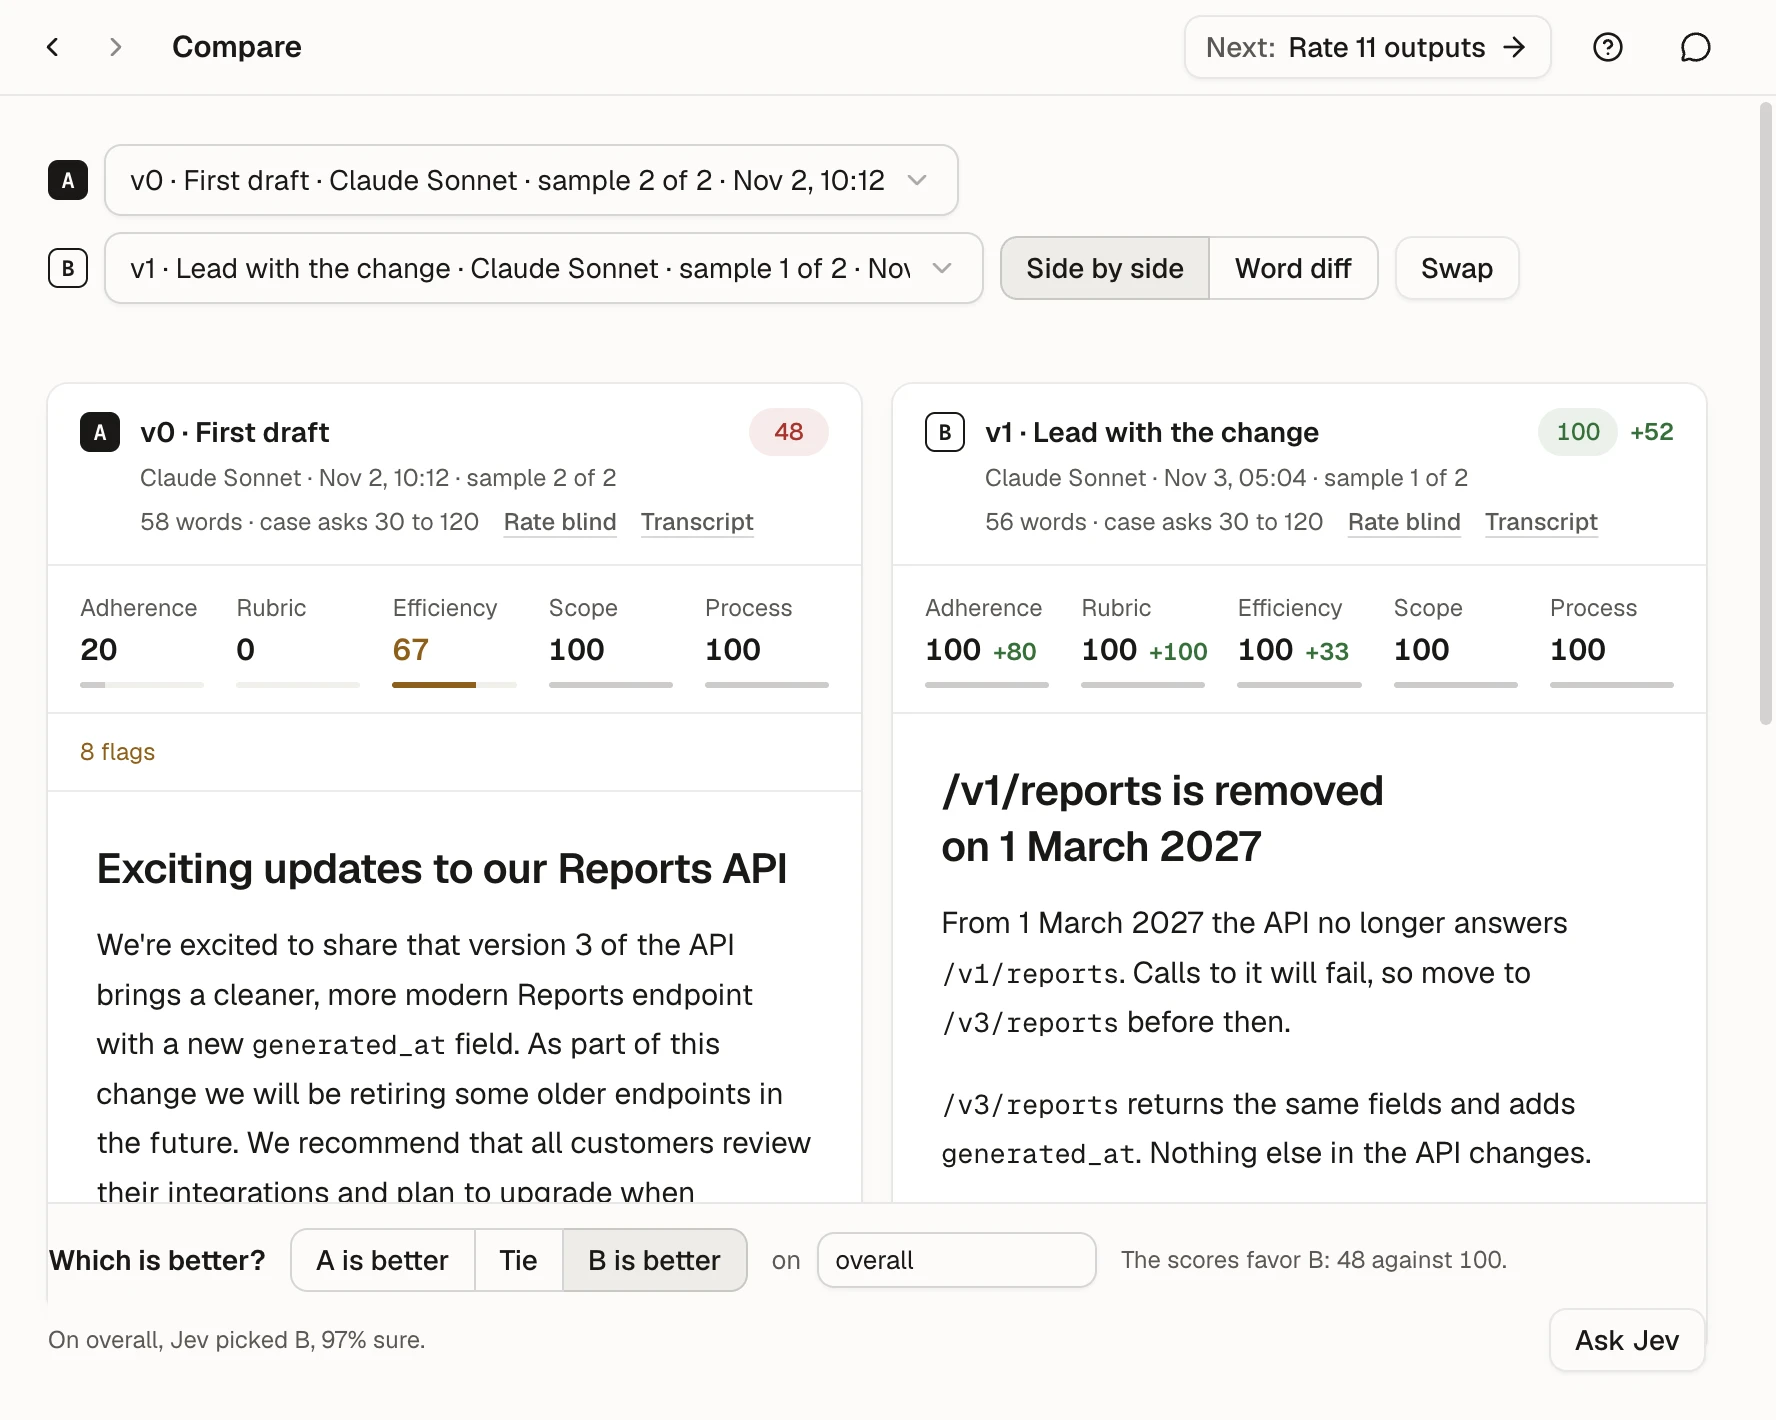
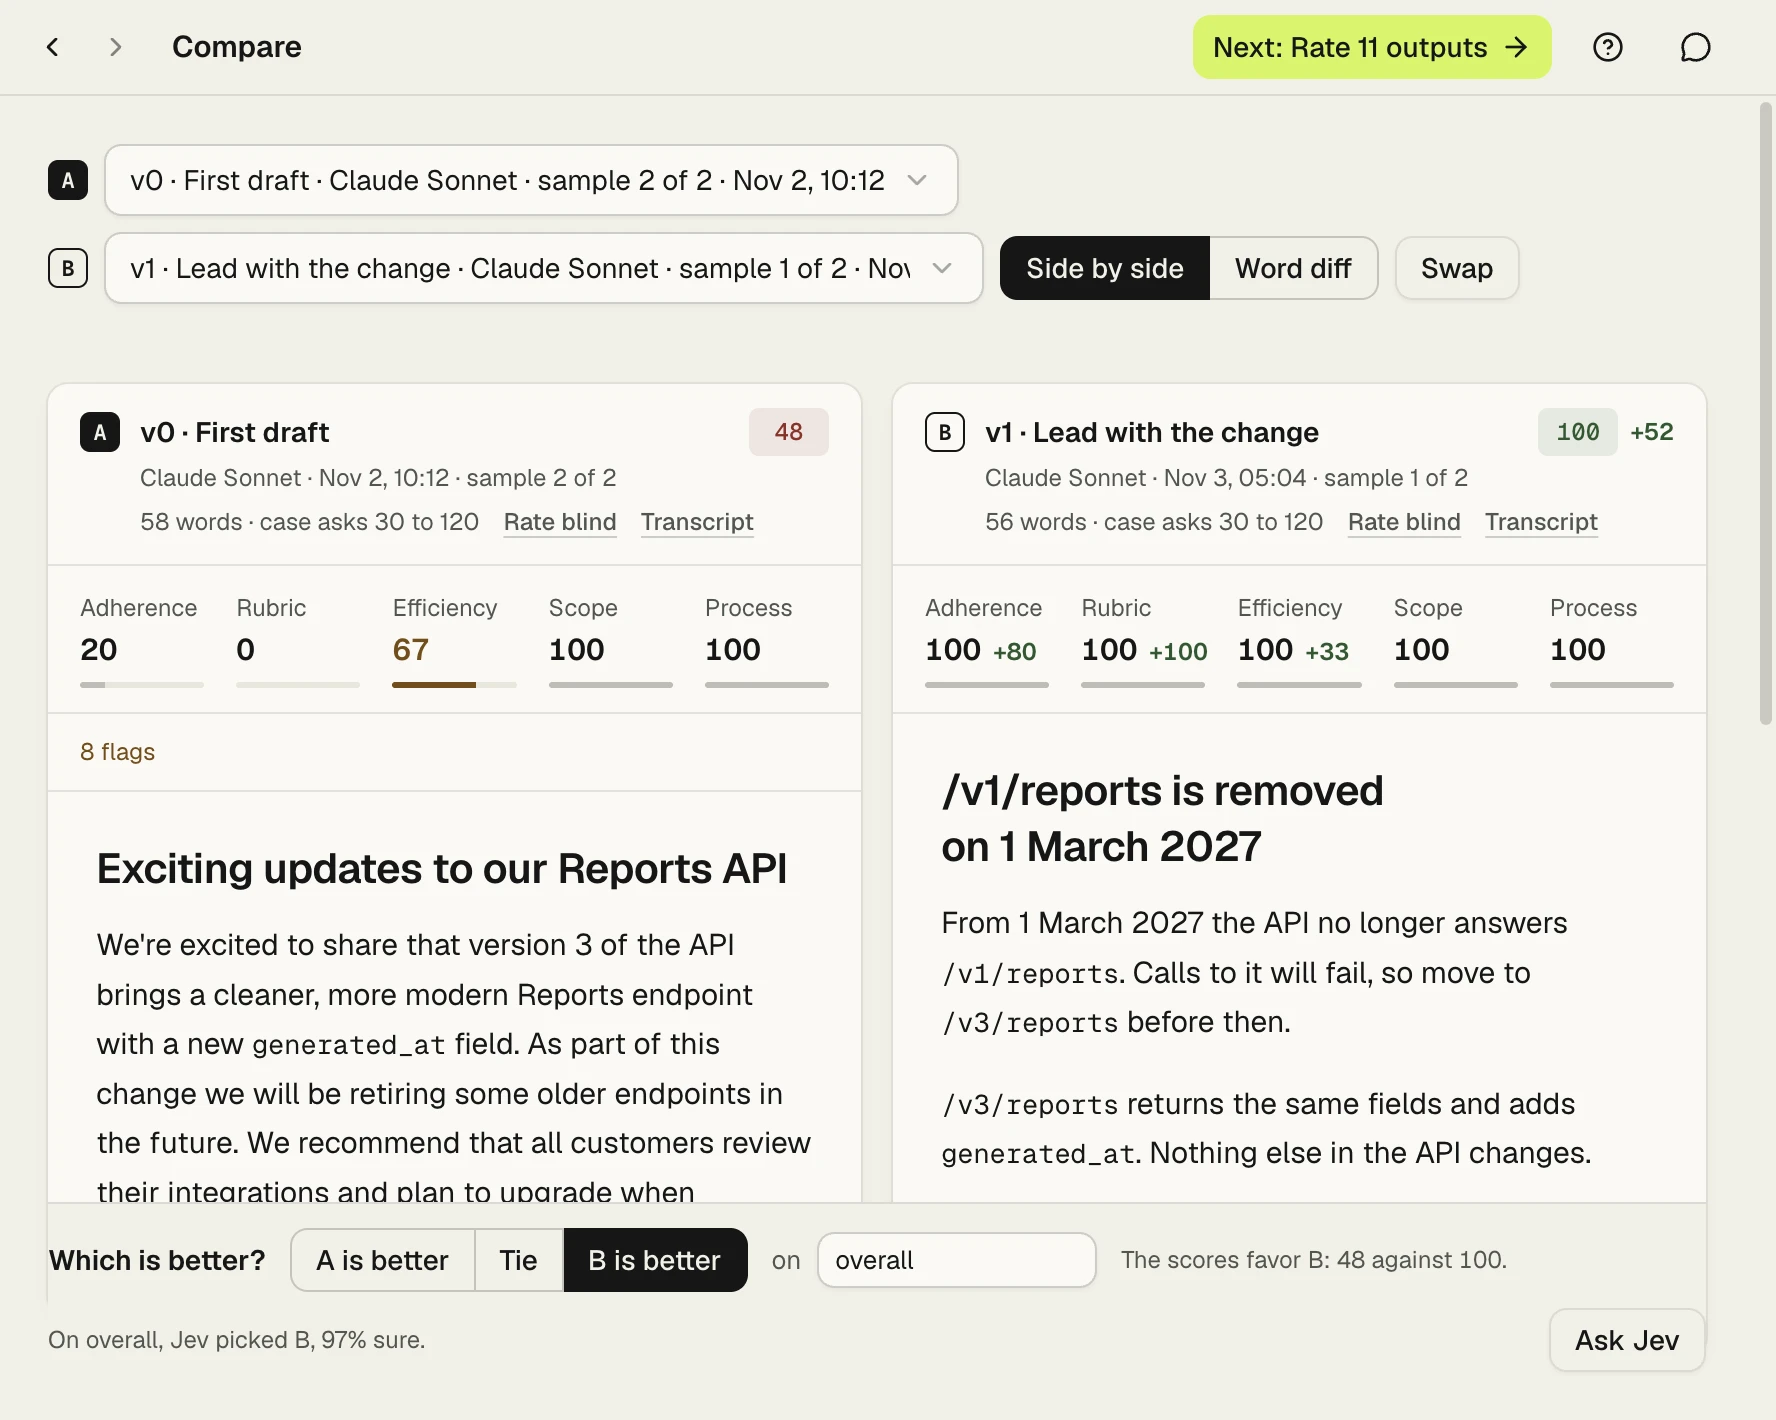
Redesign phase 5: every screen
Each screen checked in both themes at 1280 x 860 and 720 x 480, with the
overlays (help, assistant, skill switcher, confirm dialog).

- Results fits a 720px window: SampleCount's "×2" folds away below lg, and
  the cell's label still says it.
- A destructive Alert colors only its heading, as data.md says and as the
  other verdicts already did; the three share one VERDICT_BODY.
- The slider's thumb takes the card fill, not white.
- The guide's two diagrams use the new palette, with readable step labels.
  paint.test.ts now also fails if a diagram uses a color that is not a
  light-scope token or its tint.
- guide:shots parks the pointer and drops the focus before each picture,
  so no row shows a hover or focus it only has from the script. Every
  picture retaken.
- CHANGELOG entry for the redesign.

diff --git a/src/interfaces/electron/main/paint.test.ts b/src/interfaces/electron/main/paint.test.ts
@@ -6,8 +6,10 @@ import { BACKGROUND } from './paint.ts'
 const ROOT = join(import.meta.dirname, '../../../..')
 const read = (path: string) => readFileSync(join(ROOT, path), 'utf8')
 
-/** oklch() to an sRGB hex, as a browser paints it. */
-function hex(l: number, c: number, h: number): string {
+type Rgb = [number, number, number]
+
+/** oklch() to sRGB channels from 0 to 1, as a browser paints it. */
+function rgb(l: number, c: number, h: number): Rgb {
   const a = c * Math.cos((h * Math.PI) / 180)
   const b = c * Math.sin((h * Math.PI) / 180)
   const lms = [
@@ -24,33 +26,58 @@ function hex(l: number, c: number, h: number): string {
     const v = Math.min(1, Math.max(0, x))
     return v <= 0.0031308 ? 12.92 * v : 1.055 * v ** (1 / 2.4) - 0.055
   }
-  return `#${linear
+  return linear.map(encode) as Rgb
+}
+
+const toHex = (color: Rgb): string =>
+  `#${color
     .map((x) =>
-      Math.round(encode(x) * 255)
+      Math.round(x * 255)
         .toString(16)
         .padStart(2, '0'),
     )
     .join('')
     .toUpperCase()}`
-}
 
-/** Every --background in styles.css, in order: the light scope, then the dark one. */
-function backgrounds(): string[] {
+/** `color` at `alpha` over `ground`, as a tint utility paints it. */
+const over = (color: Rgb, alpha: number, ground: Rgb): string =>
+  toHex(color.map((x, i) => x * alpha + ground[i] * (1 - alpha)) as Rgb)
+
+/** Every value of a token in styles.css, in order: the light scope, then the dark one. */
+function values(name: string): Rgb[] {
   const css = read('src/renderer/styles.css')
-  return [...css.matchAll(/--background: oklch\(([\d.]+) ([\d.]+) ([\d.]+)\);/g)].map((m) =>
-    hex(Number(m[1]), Number(m[2]), Number(m[3])),
-  )
+  const pattern = new RegExp(`--${name}: oklch\\(([\\d.]+) ([\\d.]+) ([\\d.]+)\\);`, 'g')
+  return [...css.matchAll(pattern)].map((m) => rgb(Number(m[1]), Number(m[2]), Number(m[3])))
 }
+const light = (name: string): Rgb => values(name)[0]
 
 describe('first-paint colors', () => {
   it('match the page color in styles.css', () => {
-    const [light, dark] = backgrounds()
-    expect(BACKGROUND).toEqual({ light, dark })
+    const [lightPage, darkPage] = values('background').map(toHex)
+    expect(BACKGROUND).toEqual({ light: lightPage, dark: darkPage })
   })
 
   it('are the theme-color metas in index.html', () => {
     const html = read('src/renderer/index.html')
     expect(html).toContain(`media="(prefers-color-scheme: light)" content="${BACKGROUND.light}"`)
     expect(html).toContain(`media="(prefers-color-scheme: dark)" content="${BACKGROUND.dark}"`)
+  })
+})
+
+describe("the guide's diagrams", () => {
+  it("use only the light theme's colors", () => {
+    const card = light('card')
+    const allowed = new Set([
+      ...['background', 'card', 'foreground', 'muted-foreground', 'warning', 'destructive'].map(
+        (name) => toHex(light(name)),
+      ),
+      // A control's edge, and a verdict's tint, as the app paints them on a card.
+      over(light('foreground'), 0.2, card),
+      over(light('warning'), 0.1, card),
+      over(light('destructive'), 0.1, card),
+    ])
+    for (const file of ['docs/images/loop.svg', 'docs/images/which-to-change.svg'])
+      for (const [color] of read(file).matchAll(/#[0-9a-fA-F]{6}\b/g))
+        expect(allowed, `${file}: ${color}`).toContain(color.toUpperCase())
   })
 })

diff --git a/src/renderer/components/ui/alert.tsx b/src/renderer/components/ui/alert.tsx
@@ -2,17 +2,18 @@ import { cn } from '@renderer/lib/utils.ts'
 import { cva, type VariantProps } from 'class-variance-authority'
 import type * as React from 'react'
 
+/** A verdict's heading carries the color; its body stays readable. See docs/design/data.md. */
+const VERDICT_BODY = '*:data-[slot=alert-description]:text-card-foreground'
+
 const alertVariants = cva(
   'relative grid w-full grid-cols-[0_1fr] items-start gap-y-0.5 rounded-lg border px-4 py-3 text-sm has-[>svg]:grid-cols-[calc(var(--spacing)*4)_1fr] has-[>svg]:gap-x-3 [&>svg]:size-4 [&>svg]:translate-y-0.5 [&>svg]:text-current',
   {
     variants: {
       variant: {
         default: 'bg-card text-card-foreground',
-        destructive:
-          'bg-card text-destructive *:data-[slot=alert-description]:text-destructive/90 [&>svg]:text-current',
-        /* Verdicts beside destructive: the heading carries the color, the body stays readable. */
-        success: 'bg-card text-success *:data-[slot=alert-description]:text-card-foreground',
-        warning: 'bg-card text-warning *:data-[slot=alert-description]:text-card-foreground',
+        destructive: `bg-card text-destructive ${VERDICT_BODY}`,
+        success: `bg-card text-success ${VERDICT_BODY}`,
+        warning: `bg-card text-warning ${VERDICT_BODY}`,
         /** A quiet note on the muted surface, for a remark that is not a verdict. */
         muted: 'border-transparent bg-muted text-card-foreground',
       },

diff --git a/src/renderer/components/Scores.tsx b/src/renderer/components/Scores.tsx
@@ -30,11 +30,12 @@ export function TotalChip({ total }: { total: number | null | undefined }) {
 /**
  * How many outputs a mean stands for, "×2". The slot keeps its width when
  * there is one output, so chips beside it line up down a column where only
- * some rows repeat a case.
+ * some rows repeat a case. Below `lg` it folds away, as an optional column
+ * does, so a table of cases fits a 720px window; the score's label says it.
  */
 export function SampleCount({ count }: { count: number }) {
   return (
-    <span className="min-w-5 text-left text-xs font-normal text-muted-foreground tabular-nums">
+    <span className="min-w-5 text-left text-xs font-normal text-muted-foreground tabular-nums max-lg:hidden">
       {count > 1 ? `×${count}` : null}
     </span>
   )

diff --git a/src/renderer/components/ui/slider.tsx b/src/renderer/components/ui/slider.tsx
@@ -47,7 +47,7 @@ function Slider({
         <SliderPrimitive.Thumb
           data-slot="slider-thumb"
           key={index}
-          className="block size-4 shrink-0 rounded-full border border-primary bg-white shadow-sm ring-ring/50 transition-[color,box-shadow] hover:ring-4 focus-visible:ring-4 focus-visible:outline-hidden disabled:pointer-events-none disabled:opacity-50"
+          className="block size-4 shrink-0 rounded-full border border-primary bg-card shadow-sm ring-ring/50 transition-[color,box-shadow] hover:ring-4 focus-visible:ring-4 focus-visible:outline-hidden disabled:pointer-events-none disabled:opacity-50"
         />
       ))}
     </SliderPrimitive.Root>

diff --git a/scripts/guide-shots/index.ts b/scripts/guide-shots/index.ts
@@ -152,6 +152,11 @@ async function take(page: Page, shot: Shot): Promise<void> {
     await press(page, shot.press)
     await settle(page)
   }
+  // No row may show a hover or a focus it only has from the script: park the pointer on the
+  // drag strip and let go of the focus.
+  await page.send('Input.dispatchMouseEvent', { type: 'mouseMoved', x: 1, y: 1 })
+  await page.run('document.activeElement instanceof HTMLElement && document.activeElement.blur()')
+  await settle(page)
   const { data } = await page.send('Page.captureScreenshot', {
     format: 'webp',
     quality: 90,

diff --git a/CHANGELOG.md b/CHANGELOG.md
@@ -6,6 +6,21 @@ The format follows [Keep a Changelog](https://keepachangelog.com/en/1.1.0/), and
 
 ## [Unreleased]
 
+### Changed
+
+- A new look. The sidebar is near-black in both themes, and the page is a warm off-white in the light theme and near-black in the dark one.
+- The next step at the top right is lime, the one lime control in the window. A running job's dot in the sidebar is lime too.
+- Scores, costs and times in tables are set in mono, so digits line up down a column. Score chips have small 5px corners.
+- A pressed choice (a theme, an install toggle, a vote between two outputs) is filled solid, the same everywhere. Good and Bad marks stay green and red.
+- Fields have a light fill, so they are easy to find on the page.
+- The welcome opens on a dark cover with the new mark, and each step of the tour shows its number large.
+- A new app icon: the Flow mark, two ribbons on near-black.
+
+### Fixed
+
+- Results fits a 720px window: the "×2" beside a score folds away below 1024px, and the score still says it to a screen reader.
+- Like the other verdicts, a failing message on Agreement colors only its heading.
+
 ## [0.1.0] - 2026-11-05
 
 ### Added

diff --git a/docs/guide.md b/docs/guide.md
@@ -56,7 +56,7 @@ pnpm install
 pnpm dev
 ```
 
-Then open Settings at the foot of the sidebar and paste the TypeSafe key under Jev key. The app stores it encrypted through your system keychain. While the key is missing, a "No Jev key" pill at the top right takes you to Settings.
+Then open Settings at the foot of the sidebar and paste the TypeSafe key under Jev key. The app stores it encrypted through your system keychain. While the key is missing, a "No Jev key" label at the top right takes you to Settings.
 
 The first time it opens, the app shows a welcome. "See how it works" tells the loop in six steps on the practice skill and ends on **Start practice**. Skip goes to your skills at any point. In the desktop app the welcome has a small window of its own, and the app opens when you skip, finish or close it.
 

diff --git a/docs/design/color.md b/docs/design/color.md
@@ -122,4 +122,4 @@ Two known gaps. `border-input` on porcelain is 1.5:1, so an input is found by it
 
 ## Changing a token
 
-Change the value in `styles.css` in all three scopes, re-measure every pair in the table that uses it, and update this file in the same pull request. To fix a failing pair, move L only: chroma and hue do not change contrast.
+Change the value in `styles.css` in all three scopes, re-measure every pair in the table that uses it, and update this file in the same pull request. `paint.test.ts` (main process) fails when a hex copy outside CSS drifts: the window's first paint, `index.html`'s theme colors, and the guide's diagrams in `docs/images/*.svg`, which may use only the light scope's tokens and their tints. To fix a failing pair, move L only: chroma and hue do not change contrast.

diff --git a/docs/design/data.md b/docs/design/data.md
@@ -53,7 +53,7 @@ A score is out of 100 and always shows through one of these, from `components/Sc
 | Component | Shows |
 | --- | --- |
 | `TotalChip` | a score as a chip whose color is its band. Every chip is 40px wide, so a column keeps one edge. |
-| `SampleCount` | how many outputs a mean stands for: "×2". Its slot keeps its width when empty. |
+| `SampleCount` | how many outputs a mean stands for: "×2". Its slot keeps its width when empty. Hidden below `lg`, so a table of cases fits 720px: the score's `aria-label` still says it. |
 | `Delta` | a change between two scores: "+15" in `success`, "−4" in `destructive` |
 | `Layers` | each layer's score with a bar. Bars stay grey until a layer is weak. |
 | `Flags` | the list of what a grader flagged |
